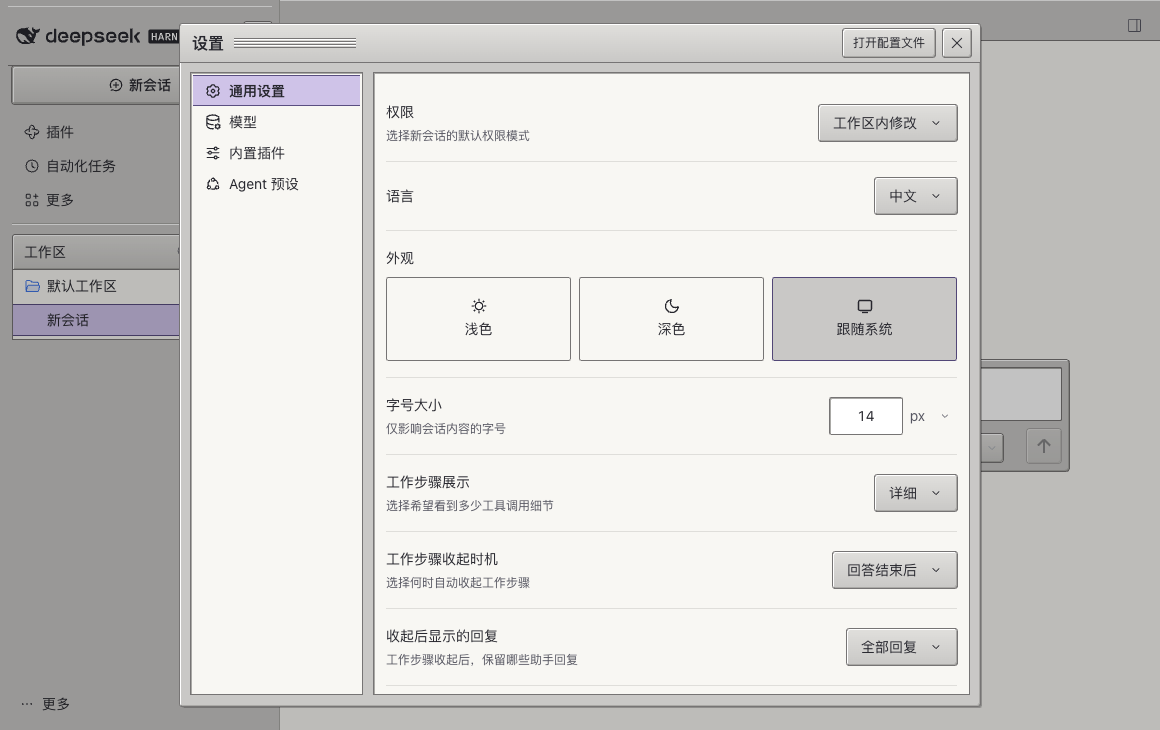
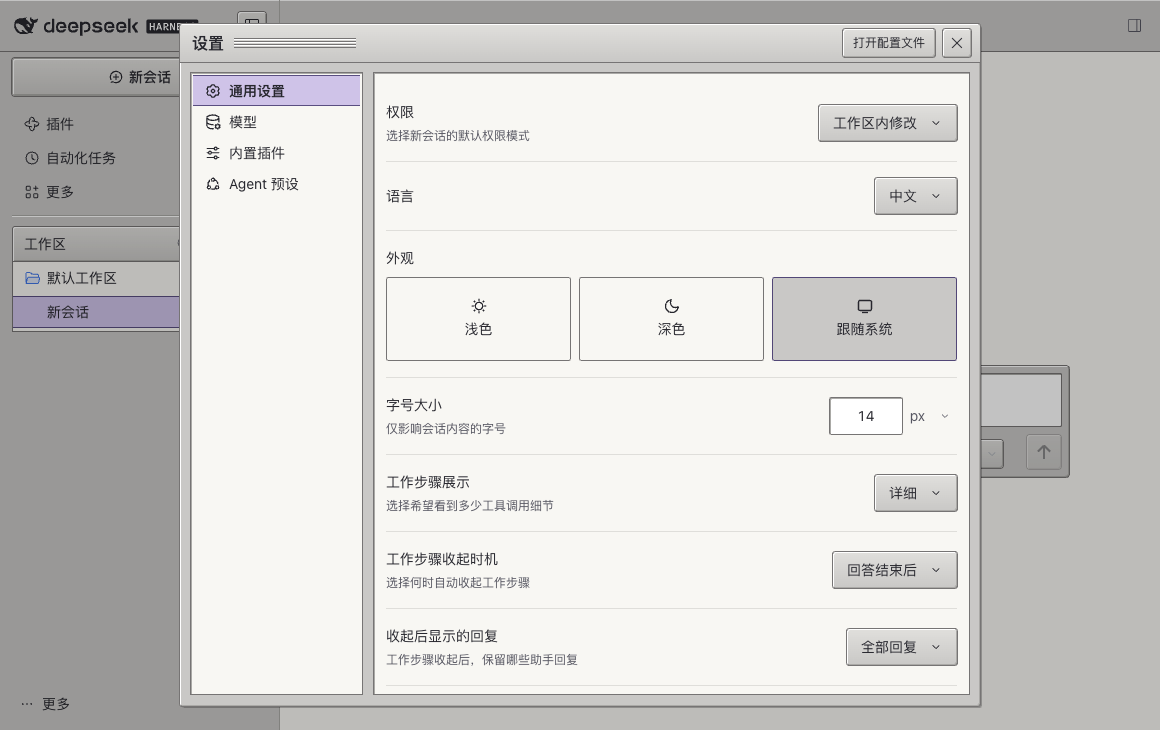
Align web sidebar header strip with conversation header and refresh screenshots

diff --git a/client.js b/client.js
@@ -2,7 +2,7 @@
 window.__ModuleLoader__.load({
   id: 'dsh-platinum-theme',
   factory() {
-    const css = "html[data-dsh-platinum] body {\n  --platinum-paper: #f8f7f3;\n  --platinum-panel: #c9c8c6;\n  --platinum-raised: #e0dfdc;\n  --platinum-composer: #fff;\n  --platinum-rule: #aaa9a6;\n  --platinum-edge: #767474;\n  --platinum-glint: #fff;\n  --platinum-ink: #27272e;\n  --platinum-muted: #565661;\n  --platinum-accent: #524777;\n  --platinum-action: #5a4e81;\n  --platinum-button: #5a4e81;\n  --platinum-accent-hover: #493d70;\n  --platinum-selection: #cfc3e8;\n  --platinum-hover: #dfd9ea;\n  --platinum-on-accent: #fff;\n  --platinum-groove: repeating-linear-gradient(to bottom,\n    var(--platinum-edge) 0 1px, var(--platinum-glint) 1px 2px, transparent 2px 3px);\n  --platinum-face: linear-gradient(180deg, var(--platinum-raised), var(--platinum-panel));\n  --platinum-bevel: inset 1px 1px var(--platinum-glint), inset -1px -1px var(--platinum-rule);\n  --dsh-scrollbar-width: 12px;\n}\n\nhtml[data-dsh-platinum] body[data-ds-dark-theme] {\n  --platinum-paper: #252528;\n  --platinum-panel: #333338;\n  --platinum-raised: #434349;\n  --platinum-composer: #292b30;\n  --platinum-rule: #505059;\n  --platinum-edge: #72717b;\n  --platinum-glint: #595963;\n  --platinum-ink: #eeedf0;\n  --platinum-muted: #babac6;\n  --platinum-accent: #c1b5e2;\n  --platinum-action: #a598c5;\n  --platinum-button: #675686;\n  --platinum-accent-hover: #746298;\n  --platinum-selection: #514364;\n  --platinum-hover: #36333f;\n}\n\nhtml[data-dsh-platinum] {\n  & header[data-window-drag]:has([data-conversation-header-leading]),\n  & [data-window-drag]:has(> [data-sidebar-toggle]) {\n    background: var(--platinum-panel);\n    border-bottom: 1px solid var(--platinum-edge);\n    box-shadow: inset 0 1px var(--platinum-glint);\n  }\n\n  /* The macOS sidebar and collapsed controls both use a 52px title band.\n     Blank conversations need the same baseline even without tabs. */\n  &[data-platform=\"darwin\"] header[data-window-drag]:has([data-conversation-header-leading]) {\n    min-height: 52px;\n    align-content: start;\n  }\n\n  /* Extend the macOS strip to the tab baseline and keep its toggle at title-row height. */\n  &[data-platform=\"darwin\"]:has([data-conversation-tabs]) [data-window-drag]:has(> [data-sidebar-toggle]) {\n    --platinum-sidebar-strip-extra: max(0px, calc(var(--platinum-conversation-header-height, 52px) - 52px));\n    height: calc(52px + var(--platinum-sidebar-strip-extra));\n    padding-bottom: calc(2px + var(--platinum-sidebar-strip-extra));\n\n    & + [data-window-drag] {\n      margin-top: 0;\n    }\n  }\n\n  /* The flexible title group has room for the ridges after its real controls,\n     including blank conversations before the breadcrumb nav mounts. */\n  & header[data-window-drag] :is(\n    :has(> nav[aria-label]):has(+ * + [data-conversation-header-corner]),\n    [data-conversation-header-leading] + :not([data-conversation-header-corner]):has(+ [data-conversation-header-corner], + * + [data-conversation-header-corner]),\n    [data-conversation-header-leading]:has(+ [data-conversation-header-corner])\n  ) {\n    display: flex;\n    align-items: center;\n    flex: 1 1 0;\n    min-width: 0;\n\n    & > nav {\n      font-family: Geneva, Chicago, Tahoma, sans-serif;\n      font-weight: 700;\n    }\n\n    &::after {\n      content: '';\n      flex: 1 1 0;\n      min-width: 0;\n      height: 10px;\n      margin-inline: 4px 12px;\n      background: var(--platinum-groove);\n      pointer-events: none;\n    }\n  }\n\n  & [data-conversation-tabs] {\n    gap: 3px;\n\n    & [role=\"tab\"] {\n      margin: 0;\n      min-height: 25px;\n      padding: 3px 11px 4px;\n      border: 1px solid var(--platinum-edge);\n      border-bottom: 0;\n      border-radius: 4px 4px 0 0;\n      background: var(--platinum-face);\n      box-shadow: var(--platinum-bevel);\n      color: var(--platinum-ink);\n      font-weight: 600;\n    }\n\n    & [role=\"tab\"][aria-selected=\"true\"] {\n      background: var(--platinum-paper);\n      box-shadow: inset 1px 1px var(--platinum-glint), 0 1px var(--platinum-paper);\n      color: var(--platinum-accent);\n    }\n\n    & [role=\"tab\"]::after {\n      content: none;\n    }\n  }\n\n  & [data-sidebar-scrollport] {\n    & > nav {\n      margin-inline: 4px;\n      padding-bottom: 7px;\n      border-bottom: 1px solid var(--platinum-rule);\n      box-shadow: 0 1px var(--platinum-glint);\n    }\n\n    & [data-sidebar-workspace-header] {\n      margin-inline: 4px;\n      /* The native workspace toolbar otherwise extends into the sidebar gutter. */\n      margin-inline-end: 4px !important;\n      border: 1px solid var(--platinum-edge);\n      border-radius: 3px 3px 0 0;\n      box-shadow: var(--platinum-bevel);\n    }\n\n    & [data-sidebar-list-area] {\n      --dsh-scrollbar-width: 10px;\n      margin-right: 4px;\n      padding-right: 0;\n      scrollbar-gutter: auto;\n    }\n\n    & [role=\"tree\"] {\n      --dsh-sidebar-paint-inset: 0px;\n      margin-inline: 4px 0;\n      background: var(--platinum-paper);\n      border: 1px solid var(--platinum-edge);\n      border-top: 0;\n      padding-block-end: 3px;\n    }\n\n    & [role=\"treeitem\"] {\n      border-radius: 0;\n      padding-inline-end: 11px;\n    }\n  }\n\n  & [data-sidebar-scrollport] :is([aria-current=\"page\"], [aria-selected=\"true\"]) {\n    background: var(--platinum-selection);\n    border-radius: 0;\n    box-shadow: inset 0 1px var(--platinum-action), inset 0 -1px var(--platinum-action);\n  }\n\n  & [data-sidebar-workspace-header],\n  & [data-sidebar-toggle],\n  & [data-sidebar-opener],\n  & [data-slot=\"sidebar.session.action\"] button[aria-label],\n  & [data-composer-card] > :last-child button:not([role=\"menuitem\"]) {\n    background: var(--platinum-face);\n    color: var(--platinum-ink);\n    border-radius: 3px;\n    corner-shape: round;\n    box-shadow: 0 0 0 1px var(--platinum-edge), var(--platinum-bevel);\n  }\n\n  & :is([data-sidebar-toggle], [data-sidebar-opener], [data-slot=\"sidebar.session.action\"] button[aria-label], [data-composer-card] > :last-child button):active:not(:disabled) {\n    background: var(--platinum-selection);\n    box-shadow: inset 1px 1px var(--platinum-edge), inset -1px -1px var(--platinum-glint);\n  }\n\n  /* Classic Platinum default-button recessed outer ring for the primary send action. */\n  & [data-composer-card] > :last-child > :is(button:last-child, :last-child > button:last-child, :last-child > :last-child > button:last-child):not([role=\"menuitem\"]) {\n    box-shadow: 0 0 0 1px var(--platinum-edge), 0 0 0 2px var(--platinum-panel),\n      0 0 0 3px var(--platinum-rule), 1px 1px 0 3px var(--platinum-glint), var(--platinum-bevel);\n\n    &:not(:disabled) {\n      color: var(--platinum-accent);\n      box-shadow: 0 0 0 1px var(--platinum-action), 0 0 0 2px var(--platinum-panel),\n        0 0 0 3px var(--platinum-edge), 1px 1px 0 3px var(--platinum-glint), var(--platinum-bevel);\n    }\n\n    &:hover:not(:disabled) {\n      background: var(--platinum-hover);\n    }\n\n    &:active:not(:disabled) {\n      background: var(--platinum-selection);\n      box-shadow: 0 0 0 1px var(--platinum-action), 0 0 0 2px var(--platinum-panel),\n        0 0 0 3px var(--platinum-edge), 1px 1px 0 3px var(--platinum-glint),\n        inset 1px 1px var(--platinum-edge), inset -1px -1px var(--platinum-glint);\n    }\n  }\n\n  & [data-composer-card] {\n    background: var(--platinum-panel);\n    border-radius: 4px;\n    box-shadow: 0 0 0 1px var(--platinum-edge), var(--platinum-bevel);\n    gap: 9px;\n\n    & > [data-input-scroll] {\n      margin-inline: 8px;\n      background: var(--platinum-composer);\n      border-radius: 1px;\n      box-shadow: 0 0 0 1px var(--platinum-edge), inset 1px 1px var(--platinum-rule),\n        inset -1px -1px var(--platinum-glint);\n    }\n\n    & > [data-input-scroll]:focus-within {\n      outline: 1px solid var(--platinum-accent);\n    }\n\n    & [data-composer-placeholder] {\n      color: var(--platinum-muted);\n    }\n  }\n\n  & [data-composer-dock]:not(:empty) {\n    box-sizing: border-box;\n    width: 100%;\n    max-width: var(--dsh-composer-card-max-width, 100%);\n    border: 1px solid var(--platinum-rule);\n    border-top: 0;\n    background: var(--platinum-raised);\n    box-shadow: inset 0 1px var(--platinum-glint);\n  }\n\n  & :is([role=\"dialog\"], [role=\"menu\"], [role=\"listbox\"]):not([data-shortcut-modal=\"sidebar\"]) {\n    border-radius: 3px;\n    box-shadow: 0 0 0 1px var(--platinum-edge), var(--platinum-bevel), 2px 2px rgb(0 0 0 / 24%);\n  }\n\n  & :is(button[class*=\"_outline_\"], button[class*=\"secondaryButton\"]):not([role=\"switch\"], [role=\"tab\"], [role=\"menuitem\"]) {\n    border: none;\n    border-radius: 3px;\n    background: var(--platinum-face);\n    color: var(--platinum-ink);\n    box-shadow: 0 0 0 1px var(--platinum-edge), var(--platinum-bevel);\n\n    &:hover:not(:disabled) {\n      background: var(--platinum-hover);\n    }\n\n    &:active:not(:disabled) {\n      background: var(--platinum-selection);\n      box-shadow: 0 0 0 1px var(--platinum-edge), inset 1px 1px var(--platinum-edge), inset -1px -1px var(--platinum-glint);\n    }\n  }\n\n  & :is(button[class*=\"_primary_\"], button[class*=\"primaryButton\"]):not([class*=\"dangerButton\"], [role=\"switch\"], [role=\"tab\"], [role=\"menuitem\"]) {\n    border: none;\n    border-radius: 3px;\n    background: linear-gradient(180deg, color-mix(in srgb, var(--platinum-button) 88%, #fff), var(--platinum-button));\n    color: var(--platinum-on-accent);\n    box-shadow: 0 0 0 1px var(--platinum-action), 0 0 0 2px var(--platinum-panel),\n      0 0 0 3px var(--platinum-edge), 1px 1px 0 3px var(--platinum-glint),\n      inset 1px 1px rgb(255 255 255 / 26%), inset -1px -1px rgb(0 0 0 / 24%);\n\n    &:hover:not(:disabled) {\n      background: var(--platinum-accent-hover);\n    }\n\n    &:active:not(:disabled) {\n      background: var(--platinum-accent-hover);\n      box-shadow: 0 0 0 1px var(--platinum-action), 0 0 0 2px var(--platinum-panel),\n        0 0 0 3px var(--platinum-edge), inset 1px 1px rgb(0 0 0 / 35%), inset -1px -1px rgb(255 255 255 / 18%);\n    }\n  }\n}\n\nhtml[data-dsh-platinum] [data-shortcut-modal=\"settings\"] {\n  --dsw-alias-settings-card-fill: var(--platinum-raised);\n  --dsw-alias-settings-card-stroke: var(--platinum-edge);\n  --dsw-radius-md: 3px;\n  --dsw-radius-xl: 3px;\n\n  & > [id]:first-child,\n  & > nav + div {\n    background: var(--platinum-face);\n    border-bottom: 1px solid var(--platinum-edge);\n    box-shadow: inset 0 1px var(--platinum-glint);\n  }\n\n  & > [id]:first-child {\n    display: flex;\n    align-items: center;\n    gap: 10px;\n    min-width: 0;\n    padding: 7px 12px;\n    font-weight: 700;\n\n    &::after {\n      content: '';\n      flex: 1 1 auto;\n      height: 10px;\n      background: var(--platinum-groove);\n      pointer-events: none;\n    }\n  }\n\n  & > nav + div {\n    height: auto;\n    align-items: center;\n    padding: 5px 9px;\n  }\n\n  & > nav + div button,\n  & section:has([data-avatar-status]) a {\n    border-radius: 3px;\n    box-shadow: 0 0 0 1px var(--platinum-edge), var(--platinum-bevel);\n  }\n\n  & > nav + div button {\n    background: var(--platinum-face);\n  }\n\n  & > nav {\n    margin: 9px 5px 11px 10px;\n    padding: 2px;\n    border: 1px solid var(--platinum-edge);\n    background: var(--platinum-paper);\n    box-shadow: inset 1px 1px var(--platinum-rule);\n  }\n\n  & > nav > div {\n    gap: 0;\n  }\n\n  & > nav button {\n    min-height: 31px;\n    height: auto;\n    padding-block: 4px;\n    border-radius: 0;\n  }\n\n  & > nav button[aria-current=\"true\"] {\n    background: var(--platinum-selection);\n    box-shadow: inset 0 1px var(--platinum-action), inset 0 -1px var(--platinum-action);\n    font-weight: 600;\n  }\n\n  & > :last-child {\n    margin: 9px 10px 11px 5px;\n    padding: 12px;\n    border: 1px solid var(--platinum-edge);\n    background: var(--platinum-paper);\n    box-shadow: inset 1px 1px var(--platinum-rule);\n  }\n\n  & section:has([data-avatar-status]) > div:where(:first-child, :last-child) {\n    border-radius: 3px;\n    box-shadow: var(--platinum-bevel);\n  }\n\n  & section:has([data-avatar-status]) a {\n    padding-inline: 10px;\n  }\n\n  & section:has([data-avatar-status]) a:only-of-type,\n  & section:has([data-avatar-status]) a:has(+ a) {\n    background: var(--platinum-face);\n  }\n\n  & section:has([data-avatar-status]) a:only-of-type {\n    padding-block: 4px;\n  }\n\n  & section:has([data-avatar-status]) a + a {\n    color: var(--platinum-on-accent);\n  }\n\n  & button[class*=\"addButton\"] {\n    border: 1px dashed var(--platinum-edge);\n    border-radius: 3px;\n    background: var(--platinum-paper);\n    box-shadow: inset 1px 1px var(--platinum-rule);\n\n    &:hover:not(:disabled) {\n      background: var(--platinum-hover);\n    }\n  }\n\n  & button[class*=\"_selector\"],\n  & > :last-child button[class*=\"_button\"] {\n    border: none;\n    border-radius: 3px;\n    background: var(--platinum-face);\n    color: var(--platinum-ink);\n    box-shadow: 0 0 0 1px var(--platinum-edge), var(--platinum-bevel);\n\n    &:hover:not(:disabled) {\n      background: var(--platinum-hover);\n    }\n\n    &:is(:active, [aria-expanded=\"true\"]):not(:disabled) {\n      background: var(--platinum-selection);\n      box-shadow: 0 0 0 1px var(--platinum-edge), inset 1px 1px var(--platinum-edge), inset -1px -1px var(--platinum-glint);\n    }\n  }\n\n  & [class*=\"_stepper\"] {\n    border-radius: 2px;\n    background: var(--platinum-composer);\n    box-shadow: inset 1px 1px var(--platinum-rule), 0 0 0 1px var(--platinum-edge);\n  }\n\n  & button[class*=\"_arrow\"] {\n    border-radius: 2px;\n    background: var(--platinum-face);\n    box-shadow: 0 0 0 1px var(--platinum-edge), var(--platinum-bevel);\n\n    &:hover:not(:disabled) {\n      background: var(--platinum-hover);\n    }\n  }\n\n  & button[class*=\"_expander\"] {\n    border-radius: 3px;\n\n    &:hover:not(:disabled) {\n      background: var(--platinum-hover);\n    }\n  }\n}\n\nhtml[data-dsh-platinum] {\n  & [data-sidebar-right-panel] {\n    & [data-dockkit-strip] {\n      background: var(--platinum-panel);\n      border-bottom: 1px solid var(--platinum-edge);\n      box-shadow: inset 0 1px var(--platinum-glint);\n    }\n\n    & [data-dockkit-tab] {\n      background: var(--platinum-face);\n      border-radius: 4px 4px 0 0;\n      box-shadow: 0 0 0 1px var(--platinum-edge), var(--platinum-bevel);\n    }\n\n    & [data-dockkit-tab][aria-selected=\"true\"] {\n      background: var(--platinum-paper);\n      color: var(--platinum-accent);\n    }\n\n    & :is([data-dockkit-add-tab], [data-dockkit-split-button], [data-sidebar-right-mode], [data-sidebar-right-toggle]) {\n      background: var(--platinum-face);\n      border-radius: 3px;\n      box-shadow: 0 0 0 1px var(--platinum-edge), var(--platinum-bevel);\n    }\n  }\n\n  & [data-sidebar-right-guide] :is(button, [role=\"button\"]):not([role=\"menuitem\"]) {\n    background: var(--platinum-face);\n    border-radius: 3px;\n    box-shadow: var(--platinum-bevel);\n\n    &:hover { background: var(--platinum-hover); }\n    &:active { box-shadow: inset 1px 1px var(--platinum-edge); }\n  }\n\n  & :is([data-files-page], [data-files-root]) {\n    & > :has(> :is([data-files-path], [data-files-reload])) {\n      background: var(--platinum-raised);\n      box-shadow: inset 0 -1px var(--platinum-rule);\n    }\n\n    & :is([data-files-reload], [data-files-auto-refresh], [data-files-search-toggle]) {\n      background: var(--platinum-face);\n      border-radius: 3px;\n      box-shadow: var(--platinum-bevel);\n    }\n\n    & :has(> [data-files-search]) {\n      background: var(--platinum-composer);\n      border-radius: 2px;\n      box-shadow: inset 1px 1px var(--platinum-rule), 0 0 0 1px var(--platinum-edge);\n    }\n\n    & :is([data-files-search], input[type=\"search\"])::placeholder { color: var(--platinum-muted); }\n\n    & input[type=\"search\"]:not([data-files-search]) {\n      color: var(--platinum-ink);\n      background: var(--platinum-composer);\n      border-radius: 2px;\n      box-shadow: inset 1px 1px var(--platinum-rule), 0 0 0 1px var(--platinum-edge);\n    }\n\n    & [data-files-entry] > :first-child { border-radius: 0; }\n  }\n\n  & :is([data-plugin-header-part=\"tabs\"] [role=\"tablist\"], [data-testid=\"task-manager-page\"] [role=\"group\"]:has(> button[aria-pressed])) {\n    border-radius: 3px;\n    background: var(--platinum-panel);\n    box-shadow: inset 1px 1px var(--platinum-rule), 0 0 0 1px var(--platinum-edge);\n\n    & > button {\n      border-radius: 2px;\n\n      &[aria-pressed=\"true\"], &[aria-selected=\"true\"] {\n        background: var(--platinum-face);\n        color: var(--platinum-ink);\n        box-shadow: 0 0 0 1px var(--platinum-edge), var(--platinum-bevel);\n      }\n    }\n  }\n\n  & :is(input, textarea)::placeholder {\n    color: var(--platinum-muted);\n    opacity: 1;\n  }\n\n  & button[role=\"switch\"][aria-checked] {\n    border-radius: 3px;\n    box-shadow: inset 1px 1px var(--platinum-edge);\n\n    & > span {\n      border-radius: 2px;\n      background: var(--platinum-face);\n      box-shadow: var(--platinum-bevel);\n    }\n  }\n\n  & ::-webkit-scrollbar {\n    width: var(--dsh-scrollbar-width, 12px);\n    height: var(--dsh-scrollbar-width, 12px);\n  }\n\n  & ::-webkit-scrollbar-track {\n    background: var(--platinum-panel);\n    box-shadow: inset 1px 1px var(--platinum-edge), inset -1px -1px var(--platinum-glint),\n      inset 0 0 0 1px var(--platinum-rule);\n  }\n\n  & ::-webkit-scrollbar-thumb {\n    min-height: 24px;\n    min-width: 24px;\n    border: 1px solid var(--platinum-edge);\n    border-radius: 0;\n    background: var(--platinum-groove) center / 4px 7px no-repeat, var(--platinum-face);\n    box-shadow: var(--platinum-bevel);\n\n    &:horizontal {\n      background: linear-gradient(90deg, var(--platinum-raised), var(--platinum-panel));\n    }\n\n    &:hover {\n      background: var(--platinum-groove) center / 4px 7px no-repeat, var(--platinum-hover);\n\n      &:horizontal {\n        background: var(--platinum-hover);\n      }\n    }\n\n    &:active {\n      background: var(--platinum-groove) center / 4px 7px no-repeat, var(--platinum-selection);\n      box-shadow: inset 1px 1px var(--platinum-edge), inset -1px -1px var(--platinum-glint);\n\n      &:horizontal {\n        background: var(--platinum-selection);\n      }\n    }\n  }\n\n  & ::-webkit-scrollbar-corner {\n    background: var(--platinum-panel);\n    box-shadow: inset 1px 1px var(--platinum-edge);\n  }\n}\n\n@media (forced-colors: active) {\n  html[data-dsh-platinum] :is([data-composer-card], [role=\"dialog\"], [role=\"menu\"], [role=\"listbox\"]) {\n    outline: 1px solid CanvasText;\n  }\n}\n";
+    const css = "html[data-dsh-platinum] body {\n  --platinum-paper: #f8f7f3;\n  --platinum-panel: #c9c8c6;\n  --platinum-raised: #e0dfdc;\n  --platinum-composer: #fff;\n  --platinum-rule: #aaa9a6;\n  --platinum-edge: #767474;\n  --platinum-glint: #fff;\n  --platinum-ink: #27272e;\n  --platinum-muted: #565661;\n  --platinum-accent: #524777;\n  --platinum-action: #5a4e81;\n  --platinum-button: #5a4e81;\n  --platinum-accent-hover: #493d70;\n  --platinum-selection: #cfc3e8;\n  --platinum-hover: #dfd9ea;\n  --platinum-on-accent: #fff;\n  --platinum-groove: repeating-linear-gradient(to bottom,\n    var(--platinum-edge) 0 1px, var(--platinum-glint) 1px 2px, transparent 2px 3px);\n  --platinum-face: linear-gradient(180deg, var(--platinum-raised), var(--platinum-panel));\n  --platinum-bevel: inset 1px 1px var(--platinum-glint), inset -1px -1px var(--platinum-rule);\n  --dsh-scrollbar-width: 12px;\n}\n\nhtml[data-dsh-platinum] body[data-ds-dark-theme] {\n  --platinum-paper: #252528;\n  --platinum-panel: #333338;\n  --platinum-raised: #434349;\n  --platinum-composer: #292b30;\n  --platinum-rule: #505059;\n  --platinum-edge: #72717b;\n  --platinum-glint: #595963;\n  --platinum-ink: #eeedf0;\n  --platinum-muted: #babac6;\n  --platinum-accent: #c1b5e2;\n  --platinum-action: #a598c5;\n  --platinum-button: #675686;\n  --platinum-accent-hover: #746298;\n  --platinum-selection: #514364;\n  --platinum-hover: #36333f;\n}\n\nhtml[data-dsh-platinum] {\n  & header[data-window-drag]:has([data-conversation-header-leading]),\n  & [data-window-drag]:has(> [data-sidebar-toggle]) {\n    background: var(--platinum-panel);\n    border-bottom: 1px solid var(--platinum-edge);\n    box-shadow: inset 0 1px var(--platinum-glint);\n  }\n\n  /* Both macOS desktop and web sidebars share a 52px title baseline,\n     extending to match the conversation tab bar height when present. */\n  & header[data-window-drag]:has([data-conversation-header-leading]) {\n    min-height: 52px;\n    align-content: start;\n  }\n\n  /* Extend the macOS strip to the tab baseline and keep its toggle at title-row height. */\n  &[data-platform=\"darwin\"]:has([data-conversation-tabs]) [data-window-drag]:has(> [data-sidebar-toggle]) {\n    --platinum-sidebar-strip-extra: max(0px, calc(var(--platinum-conversation-header-height, 52px) - 52px));\n    height: calc(52px + var(--platinum-sidebar-strip-extra));\n    padding-bottom: calc(2px + var(--platinum-sidebar-strip-extra));\n\n    & + [data-window-drag] {\n      margin-top: 0;\n    }\n  }\n\n  &:not([data-platform=\"darwin\"]) [data-window-drag]:has(> [data-sidebar-toggle]) {\n    box-sizing: border-box;\n    height: var(--platinum-conversation-header-height, 52px);\n    margin: -6px calc(-1 * var(--dsh-sidebar-inline-padding, 8px)) 6px;\n    padding: 0 calc(var(--dsh-sidebar-inline-padding, 8px) + 6px);\n    align-items: center;\n  }\n\n  /* The flexible title group has room for the ridges after its real controls,\n     including blank conversations before the breadcrumb nav mounts. */\n  & header[data-window-drag] :is(\n    :has(> nav[aria-label]):has(+ * + [data-conversation-header-corner]),\n    [data-conversation-header-leading] + :not([data-conversation-header-corner]):has(+ [data-conversation-header-corner], + * + [data-conversation-header-corner]),\n    [data-conversation-header-leading]:has(+ [data-conversation-header-corner])\n  ) {\n    display: flex;\n    align-items: center;\n    flex: 1 1 0;\n    min-width: 0;\n\n    & > nav {\n      font-family: Geneva, Chicago, Tahoma, sans-serif;\n      font-weight: 700;\n    }\n\n    &::after {\n      content: '';\n      flex: 1 1 0;\n      min-width: 0;\n      height: 10px;\n      margin-inline: 4px 12px;\n      background: var(--platinum-groove);\n      pointer-events: none;\n    }\n  }\n\n  & [data-conversation-tabs] {\n    gap: 3px;\n\n    & [role=\"tab\"] {\n      margin: 0;\n      min-height: 25px;\n      padding: 3px 11px 4px;\n      border: 1px solid var(--platinum-edge);\n      border-bottom: 0;\n      border-radius: 4px 4px 0 0;\n      background: var(--platinum-face);\n      box-shadow: var(--platinum-bevel);\n      color: var(--platinum-ink);\n      font-weight: 600;\n    }\n\n    & [role=\"tab\"][aria-selected=\"true\"] {\n      background: var(--platinum-paper);\n      box-shadow: inset 1px 1px var(--platinum-glint), 0 1px var(--platinum-paper);\n      color: var(--platinum-accent);\n    }\n\n    & [role=\"tab\"]::after {\n      content: none;\n    }\n  }\n\n  & [data-sidebar-scrollport] {\n    & > nav {\n      margin-inline: 4px;\n      padding-bottom: 7px;\n      border-bottom: 1px solid var(--platinum-rule);\n      box-shadow: 0 1px var(--platinum-glint);\n    }\n\n    & [data-sidebar-workspace-header] {\n      margin-inline: 4px;\n      /* The native workspace toolbar otherwise extends into the sidebar gutter. */\n      margin-inline-end: 4px !important;\n      border: 1px solid var(--platinum-edge);\n      border-radius: 3px 3px 0 0;\n      box-shadow: var(--platinum-bevel);\n    }\n\n    & [data-sidebar-list-area] {\n      --dsh-scrollbar-width: 10px;\n      margin-right: 4px;\n      padding-right: 0;\n      scrollbar-gutter: auto;\n    }\n\n    & [role=\"tree\"] {\n      --dsh-sidebar-paint-inset: 0px;\n      margin-inline: 4px 0;\n      background: var(--platinum-paper);\n      border: 1px solid var(--platinum-edge);\n      border-top: 0;\n      padding-block-end: 3px;\n    }\n\n    & [role=\"treeitem\"] {\n      border-radius: 0;\n      padding-inline-end: 11px;\n    }\n  }\n\n  & [data-sidebar-scrollport] :is([aria-current=\"page\"], [aria-selected=\"true\"]) {\n    background: var(--platinum-selection);\n    border-radius: 0;\n    box-shadow: inset 0 1px var(--platinum-action), inset 0 -1px var(--platinum-action);\n  }\n\n  & [data-sidebar-workspace-header],\n  & [data-sidebar-toggle],\n  & [data-sidebar-opener],\n  & [data-slot=\"sidebar.session.action\"] button[aria-label],\n  & [data-composer-card] > :last-child button:not([role=\"menuitem\"]) {\n    background: var(--platinum-face);\n    color: var(--platinum-ink);\n    border-radius: 3px;\n    corner-shape: round;\n    box-shadow: 0 0 0 1px var(--platinum-edge), var(--platinum-bevel);\n  }\n\n  & :is([data-sidebar-toggle], [data-sidebar-opener], [data-slot=\"sidebar.session.action\"] button[aria-label], [data-composer-card] > :last-child button):active:not(:disabled) {\n    background: var(--platinum-selection);\n    box-shadow: inset 1px 1px var(--platinum-edge), inset -1px -1px var(--platinum-glint);\n  }\n\n  /* Classic Platinum default-button recessed outer ring for the primary send action. */\n  & [data-composer-card] > :last-child > :is(button:last-child, :last-child > button:last-child, :last-child > :last-child > button:last-child):not([role=\"menuitem\"]) {\n    box-shadow: 0 0 0 1px var(--platinum-edge), 0 0 0 2px var(--platinum-panel),\n      0 0 0 3px var(--platinum-rule), 1px 1px 0 3px var(--platinum-glint), var(--platinum-bevel);\n\n    &:not(:disabled) {\n      color: var(--platinum-accent);\n      box-shadow: 0 0 0 1px var(--platinum-action), 0 0 0 2px var(--platinum-panel),\n        0 0 0 3px var(--platinum-edge), 1px 1px 0 3px var(--platinum-glint), var(--platinum-bevel);\n    }\n\n    &:hover:not(:disabled) {\n      background: var(--platinum-hover);\n    }\n\n    &:active:not(:disabled) {\n      background: var(--platinum-selection);\n      box-shadow: 0 0 0 1px var(--platinum-action), 0 0 0 2px var(--platinum-panel),\n        0 0 0 3px var(--platinum-edge), 1px 1px 0 3px var(--platinum-glint),\n        inset 1px 1px var(--platinum-edge), inset -1px -1px var(--platinum-glint);\n    }\n  }\n\n  & [data-composer-card] {\n    background: var(--platinum-panel);\n    border-radius: 4px;\n    box-shadow: 0 0 0 1px var(--platinum-edge), var(--platinum-bevel);\n    gap: 9px;\n\n    & > [data-input-scroll] {\n      margin-inline: 8px;\n      background: var(--platinum-composer);\n      border-radius: 1px;\n      box-shadow: 0 0 0 1px var(--platinum-edge), inset 1px 1px var(--platinum-rule),\n        inset -1px -1px var(--platinum-glint);\n    }\n\n    & > [data-input-scroll]:focus-within {\n      outline: 1px solid var(--platinum-accent);\n    }\n\n    & [data-composer-placeholder] {\n      color: var(--platinum-muted);\n    }\n  }\n\n  & [data-composer-dock]:not(:empty) {\n    box-sizing: border-box;\n    width: 100%;\n    max-width: var(--dsh-composer-card-max-width, 100%);\n    border: 1px solid var(--platinum-rule);\n    border-top: 0;\n    background: var(--platinum-raised);\n    box-shadow: inset 0 1px var(--platinum-glint);\n  }\n\n  & :is([role=\"dialog\"], [role=\"menu\"], [role=\"listbox\"]):not([data-shortcut-modal=\"sidebar\"]) {\n    border-radius: 3px;\n    box-shadow: 0 0 0 1px var(--platinum-edge), var(--platinum-bevel), 2px 2px rgb(0 0 0 / 24%);\n  }\n\n  & :is(button[class*=\"_outline_\"], button[class*=\"secondaryButton\"]):not([role=\"switch\"], [role=\"tab\"], [role=\"menuitem\"]) {\n    border: none;\n    border-radius: 3px;\n    background: var(--platinum-face);\n    color: var(--platinum-ink);\n    box-shadow: 0 0 0 1px var(--platinum-edge), var(--platinum-bevel);\n\n    &:hover:not(:disabled) {\n      background: var(--platinum-hover);\n    }\n\n    &:active:not(:disabled) {\n      background: var(--platinum-selection);\n      box-shadow: 0 0 0 1px var(--platinum-edge), inset 1px 1px var(--platinum-edge), inset -1px -1px var(--platinum-glint);\n    }\n  }\n\n  & :is(button[class*=\"_primary_\"], button[class*=\"primaryButton\"]):not([class*=\"dangerButton\"], [role=\"switch\"], [role=\"tab\"], [role=\"menuitem\"]) {\n    border: none;\n    border-radius: 3px;\n    background: linear-gradient(180deg, color-mix(in srgb, var(--platinum-button) 88%, #fff), var(--platinum-button));\n    color: var(--platinum-on-accent);\n    box-shadow: 0 0 0 1px var(--platinum-action), 0 0 0 2px var(--platinum-panel),\n      0 0 0 3px var(--platinum-edge), 1px 1px 0 3px var(--platinum-glint),\n      inset 1px 1px rgb(255 255 255 / 26%), inset -1px -1px rgb(0 0 0 / 24%);\n\n    &:hover:not(:disabled) {\n      background: var(--platinum-accent-hover);\n    }\n\n    &:active:not(:disabled) {\n      background: var(--platinum-accent-hover);\n      box-shadow: 0 0 0 1px var(--platinum-action), 0 0 0 2px var(--platinum-panel),\n        0 0 0 3px var(--platinum-edge), inset 1px 1px rgb(0 0 0 / 35%), inset -1px -1px rgb(255 255 255 / 18%);\n    }\n  }\n}\n\nhtml[data-dsh-platinum] [data-shortcut-modal=\"settings\"] {\n  --dsw-alias-settings-card-fill: var(--platinum-raised);\n  --dsw-alias-settings-card-stroke: var(--platinum-edge);\n  --dsw-radius-md: 3px;\n  --dsw-radius-xl: 3px;\n\n  & > [id]:first-child,\n  & > nav + div {\n    background: var(--platinum-face);\n    border-bottom: 1px solid var(--platinum-edge);\n    box-shadow: inset 0 1px var(--platinum-glint);\n  }\n\n  & > [id]:first-child {\n    display: flex;\n    align-items: center;\n    gap: 10px;\n    min-width: 0;\n    padding: 7px 12px;\n    font-weight: 700;\n\n    &::after {\n      content: '';\n      flex: 1 1 auto;\n      height: 10px;\n      background: var(--platinum-groove);\n      pointer-events: none;\n    }\n  }\n\n  & > nav + div {\n    height: auto;\n    align-items: center;\n    padding: 5px 9px;\n  }\n\n  & > nav + div button,\n  & section:has([data-avatar-status]) a {\n    border-radius: 3px;\n    box-shadow: 0 0 0 1px var(--platinum-edge), var(--platinum-bevel);\n  }\n\n  & > nav + div button {\n    background: var(--platinum-face);\n  }\n\n  & > nav {\n    margin: 9px 5px 11px 10px;\n    padding: 2px;\n    border: 1px solid var(--platinum-edge);\n    background: var(--platinum-paper);\n    box-shadow: inset 1px 1px var(--platinum-rule);\n  }\n\n  & > nav > div {\n    gap: 0;\n  }\n\n  & > nav button {\n    min-height: 31px;\n    height: auto;\n    padding-block: 4px;\n    border-radius: 0;\n  }\n\n  & > nav button[aria-current=\"true\"] {\n    background: var(--platinum-selection);\n    box-shadow: inset 0 1px var(--platinum-action), inset 0 -1px var(--platinum-action);\n    font-weight: 600;\n  }\n\n  & > :last-child {\n    margin: 9px 10px 11px 5px;\n    padding: 12px;\n    border: 1px solid var(--platinum-edge);\n    background: var(--platinum-paper);\n    box-shadow: inset 1px 1px var(--platinum-rule);\n  }\n\n  & section:has([data-avatar-status]) > div:where(:first-child, :last-child) {\n    border-radius: 3px;\n    box-shadow: var(--platinum-bevel);\n  }\n\n  & section:has([data-avatar-status]) a {\n    padding-inline: 10px;\n  }\n\n  & section:has([data-avatar-status]) a:only-of-type,\n  & section:has([data-avatar-status]) a:has(+ a) {\n    background: var(--platinum-face);\n  }\n\n  & section:has([data-avatar-status]) a:only-of-type {\n    padding-block: 4px;\n  }\n\n  & section:has([data-avatar-status]) a + a {\n    color: var(--platinum-on-accent);\n  }\n\n  & button[class*=\"addButton\"] {\n    border: 1px dashed var(--platinum-edge);\n    border-radius: 3px;\n    background: var(--platinum-paper);\n    box-shadow: inset 1px 1px var(--platinum-rule);\n\n    &:hover:not(:disabled) {\n      background: var(--platinum-hover);\n    }\n  }\n\n  & button[class*=\"_selector\"],\n  & > :last-child button[class*=\"_button\"] {\n    border: none;\n    border-radius: 3px;\n    background: var(--platinum-face);\n    color: var(--platinum-ink);\n    box-shadow: 0 0 0 1px var(--platinum-edge), var(--platinum-bevel);\n\n    &:hover:not(:disabled) {\n      background: var(--platinum-hover);\n    }\n\n    &:is(:active, [aria-expanded=\"true\"]):not(:disabled) {\n      background: var(--platinum-selection);\n      box-shadow: 0 0 0 1px var(--platinum-edge), inset 1px 1px var(--platinum-edge), inset -1px -1px var(--platinum-glint);\n    }\n  }\n\n  & [class*=\"_stepper\"] {\n    border-radius: 2px;\n    background: var(--platinum-composer);\n    box-shadow: inset 1px 1px var(--platinum-rule), 0 0 0 1px var(--platinum-edge);\n  }\n\n  & button[class*=\"_arrow\"] {\n    border-radius: 2px;\n    background: var(--platinum-face);\n    box-shadow: 0 0 0 1px var(--platinum-edge), var(--platinum-bevel);\n\n    &:hover:not(:disabled) {\n      background: var(--platinum-hover);\n    }\n  }\n\n  & button[class*=\"_expander\"] {\n    border-radius: 3px;\n\n    &:hover:not(:disabled) {\n      background: var(--platinum-hover);\n    }\n  }\n}\n\nhtml[data-dsh-platinum] {\n  & [data-sidebar-right-panel] {\n    & [data-dockkit-strip] {\n      background: var(--platinum-panel);\n      border-bottom: 1px solid var(--platinum-edge);\n      box-shadow: inset 0 1px var(--platinum-glint);\n    }\n\n    & [data-dockkit-tab] {\n      background: var(--platinum-face);\n      border-radius: 4px 4px 0 0;\n      box-shadow: 0 0 0 1px var(--platinum-edge), var(--platinum-bevel);\n    }\n\n    & [data-dockkit-tab][aria-selected=\"true\"] {\n      background: var(--platinum-paper);\n      color: var(--platinum-accent);\n    }\n\n    & :is([data-dockkit-add-tab], [data-dockkit-split-button], [data-sidebar-right-mode], [data-sidebar-right-toggle]) {\n      background: var(--platinum-face);\n      border-radius: 3px;\n      box-shadow: 0 0 0 1px var(--platinum-edge), var(--platinum-bevel);\n    }\n  }\n\n  & [data-sidebar-right-guide] :is(button, [role=\"button\"]):not([role=\"menuitem\"]) {\n    background: var(--platinum-face);\n    border-radius: 3px;\n    box-shadow: var(--platinum-bevel);\n\n    &:hover { background: var(--platinum-hover); }\n    &:active { box-shadow: inset 1px 1px var(--platinum-edge); }\n  }\n\n  & :is([data-files-page], [data-files-root]) {\n    & > :has(> :is([data-files-path], [data-files-reload])) {\n      background: var(--platinum-raised);\n      box-shadow: inset 0 -1px var(--platinum-rule);\n    }\n\n    & :is([data-files-reload], [data-files-auto-refresh], [data-files-search-toggle]) {\n      background: var(--platinum-face);\n      border-radius: 3px;\n      box-shadow: var(--platinum-bevel);\n    }\n\n    & :has(> [data-files-search]) {\n      background: var(--platinum-composer);\n      border-radius: 2px;\n      box-shadow: inset 1px 1px var(--platinum-rule), 0 0 0 1px var(--platinum-edge);\n    }\n\n    & :is([data-files-search], input[type=\"search\"])::placeholder { color: var(--platinum-muted); }\n\n    & input[type=\"search\"]:not([data-files-search]) {\n      color: var(--platinum-ink);\n      background: var(--platinum-composer);\n      border-radius: 2px;\n      box-shadow: inset 1px 1px var(--platinum-rule), 0 0 0 1px var(--platinum-edge);\n    }\n\n    & [data-files-entry] > :first-child { border-radius: 0; }\n  }\n\n  & :is([data-plugin-header-part=\"tabs\"] [role=\"tablist\"], [data-testid=\"task-manager-page\"] [role=\"group\"]:has(> button[aria-pressed])) {\n    border-radius: 3px;\n    background: var(--platinum-panel);\n    box-shadow: inset 1px 1px var(--platinum-rule), 0 0 0 1px var(--platinum-edge);\n\n    & > button {\n      border-radius: 2px;\n\n      &[aria-pressed=\"true\"], &[aria-selected=\"true\"] {\n        background: var(--platinum-face);\n        color: var(--platinum-ink);\n        box-shadow: 0 0 0 1px var(--platinum-edge), var(--platinum-bevel);\n      }\n    }\n  }\n\n  & :is(input, textarea)::placeholder {\n    color: var(--platinum-muted);\n    opacity: 1;\n  }\n\n  & button[role=\"switch\"][aria-checked] {\n    border-radius: 3px;\n    box-shadow: inset 1px 1px var(--platinum-edge);\n\n    & > span {\n      border-radius: 2px;\n      background: var(--platinum-face);\n      box-shadow: var(--platinum-bevel);\n    }\n  }\n\n  & ::-webkit-scrollbar {\n    width: var(--dsh-scrollbar-width, 12px);\n    height: var(--dsh-scrollbar-width, 12px);\n  }\n\n  & ::-webkit-scrollbar-track {\n    background: var(--platinum-panel);\n    box-shadow: inset 1px 1px var(--platinum-edge), inset -1px -1px var(--platinum-glint),\n      inset 0 0 0 1px var(--platinum-rule);\n  }\n\n  & ::-webkit-scrollbar-thumb {\n    min-height: 24px;\n    min-width: 24px;\n    border: 1px solid var(--platinum-edge);\n    border-radius: 0;\n    background: var(--platinum-groove) center / 4px 7px no-repeat, var(--platinum-face);\n    box-shadow: var(--platinum-bevel);\n\n    &:horizontal {\n      background: linear-gradient(90deg, var(--platinum-raised), var(--platinum-panel));\n    }\n\n    &:hover {\n      background: var(--platinum-groove) center / 4px 7px no-repeat, var(--platinum-hover);\n\n      &:horizontal {\n        background: var(--platinum-hover);\n      }\n    }\n\n    &:active {\n      background: var(--platinum-groove) center / 4px 7px no-repeat, var(--platinum-selection);\n      box-shadow: inset 1px 1px var(--platinum-edge), inset -1px -1px var(--platinum-glint);\n\n      &:horizontal {\n        background: var(--platinum-selection);\n      }\n    }\n  }\n\n  & ::-webkit-scrollbar-corner {\n    background: var(--platinum-panel);\n    box-shadow: inset 1px 1px var(--platinum-edge);\n  }\n}\n\n@media (forced-colors: active) {\n  html[data-dsh-platinum] :is([data-composer-card], [role=\"dialog\"], [role=\"menu\"], [role=\"listbox\"]) {\n    outline: 1px solid CanvasText;\n  }\n}\n";
     const tokens = {
       "--dsw-alias-bg-base": {
         "light": "var(--platinum-paper)",
@@ -183,8 +183,6 @@ window.__ModuleLoader__.load({
     };
 
     function alignSidebarHeader(root) {
-      if (root.dataset.platform !== 'darwin') return () => {};
-
       const selector = 'header[data-window-drag]:has([data-conversation-header-leading])';
       const heightProperty = '--platinum-conversation-header-height';
       let header = null;

diff --git a/theme.css b/theme.css
@@ -48,9 +48,9 @@ html[data-dsh-platinum] {
     box-shadow: inset 0 1px var(--platinum-glint);
   }
 
-  /* The macOS sidebar and collapsed controls both use a 52px title band.
-     Blank conversations need the same baseline even without tabs. */
-  &[data-platform="darwin"] header[data-window-drag]:has([data-conversation-header-leading]) {
+  /* Both macOS desktop and web sidebars share a 52px title baseline,
+     extending to match the conversation tab bar height when present. */
+  & header[data-window-drag]:has([data-conversation-header-leading]) {
     min-height: 52px;
     align-content: start;
   }
@@ -64,6 +64,14 @@ html[data-dsh-platinum] {
     & + [data-window-drag] {
       margin-top: 0;
     }
+  }
+
+  &:not([data-platform="darwin"]) [data-window-drag]:has(> [data-sidebar-toggle]) {
+    box-sizing: border-box;
+    height: var(--platinum-conversation-header-height, 52px);
+    margin: -6px calc(-1 * var(--dsh-sidebar-inline-padding, 8px)) 6px;
+    padding: 0 calc(var(--dsh-sidebar-inline-padding, 8px) + 6px);
+    align-items: center;
   }
 
   /* The flexible title group has room for the ridges after its real controls,
